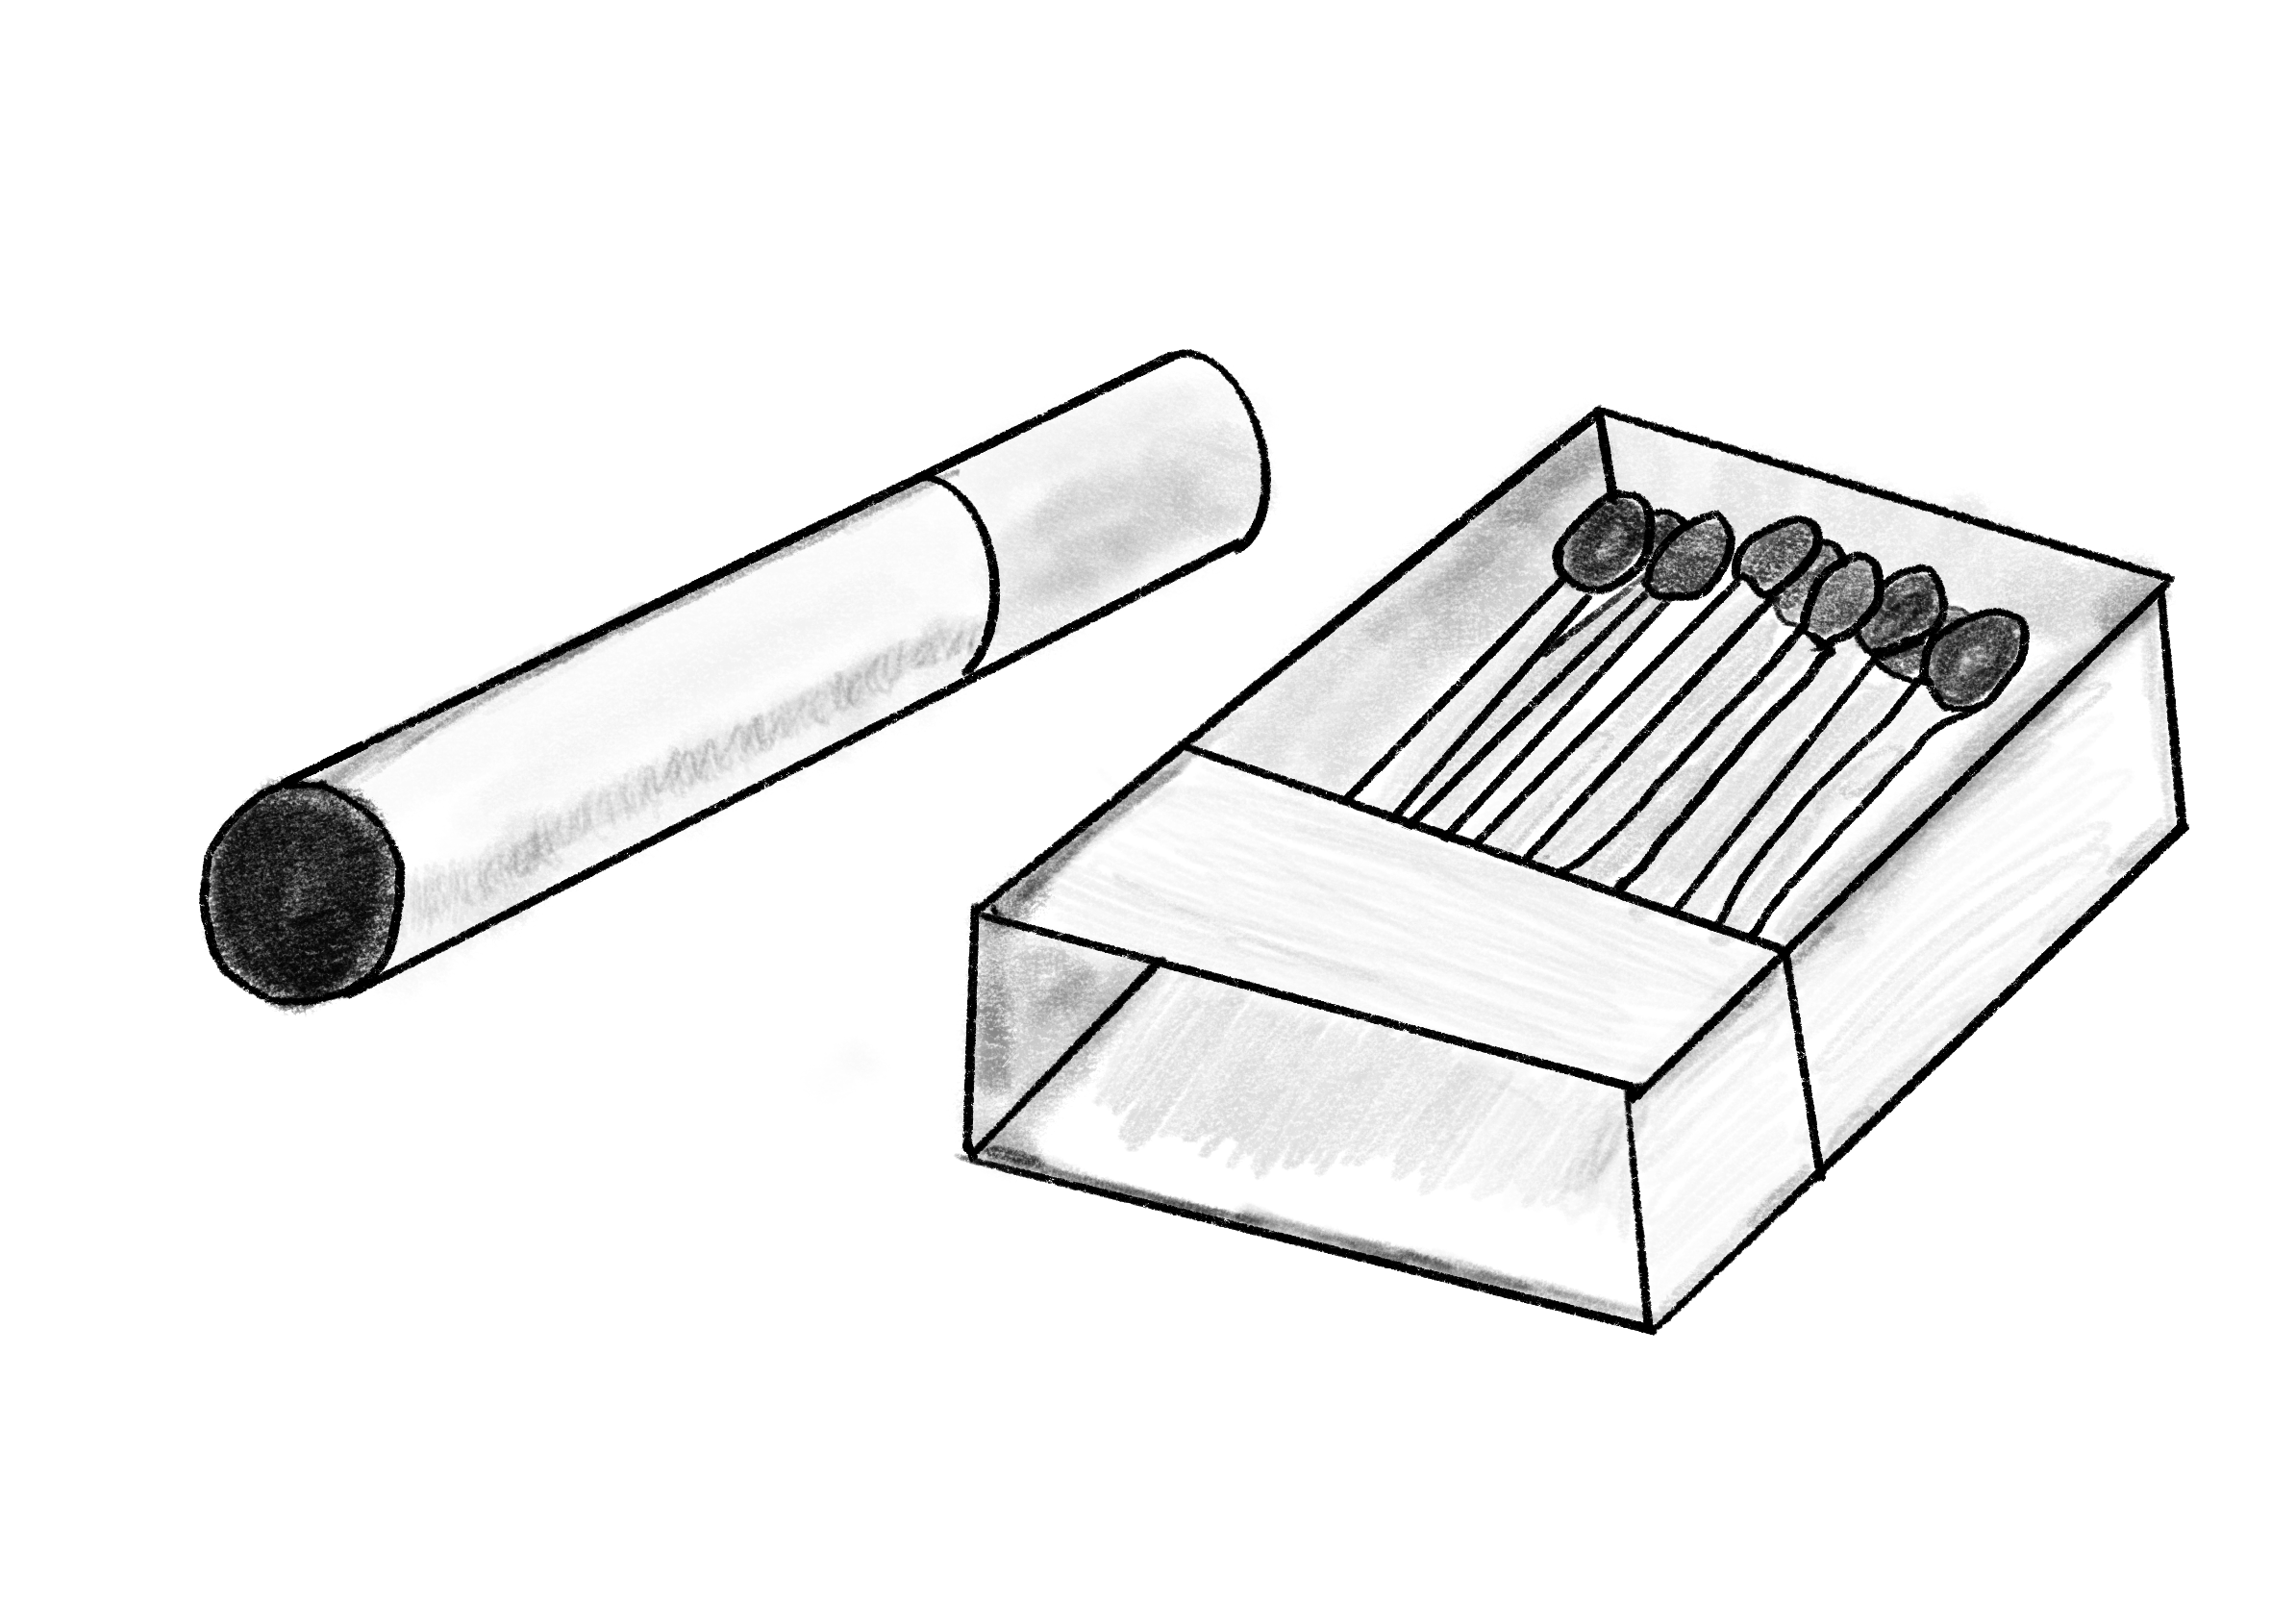
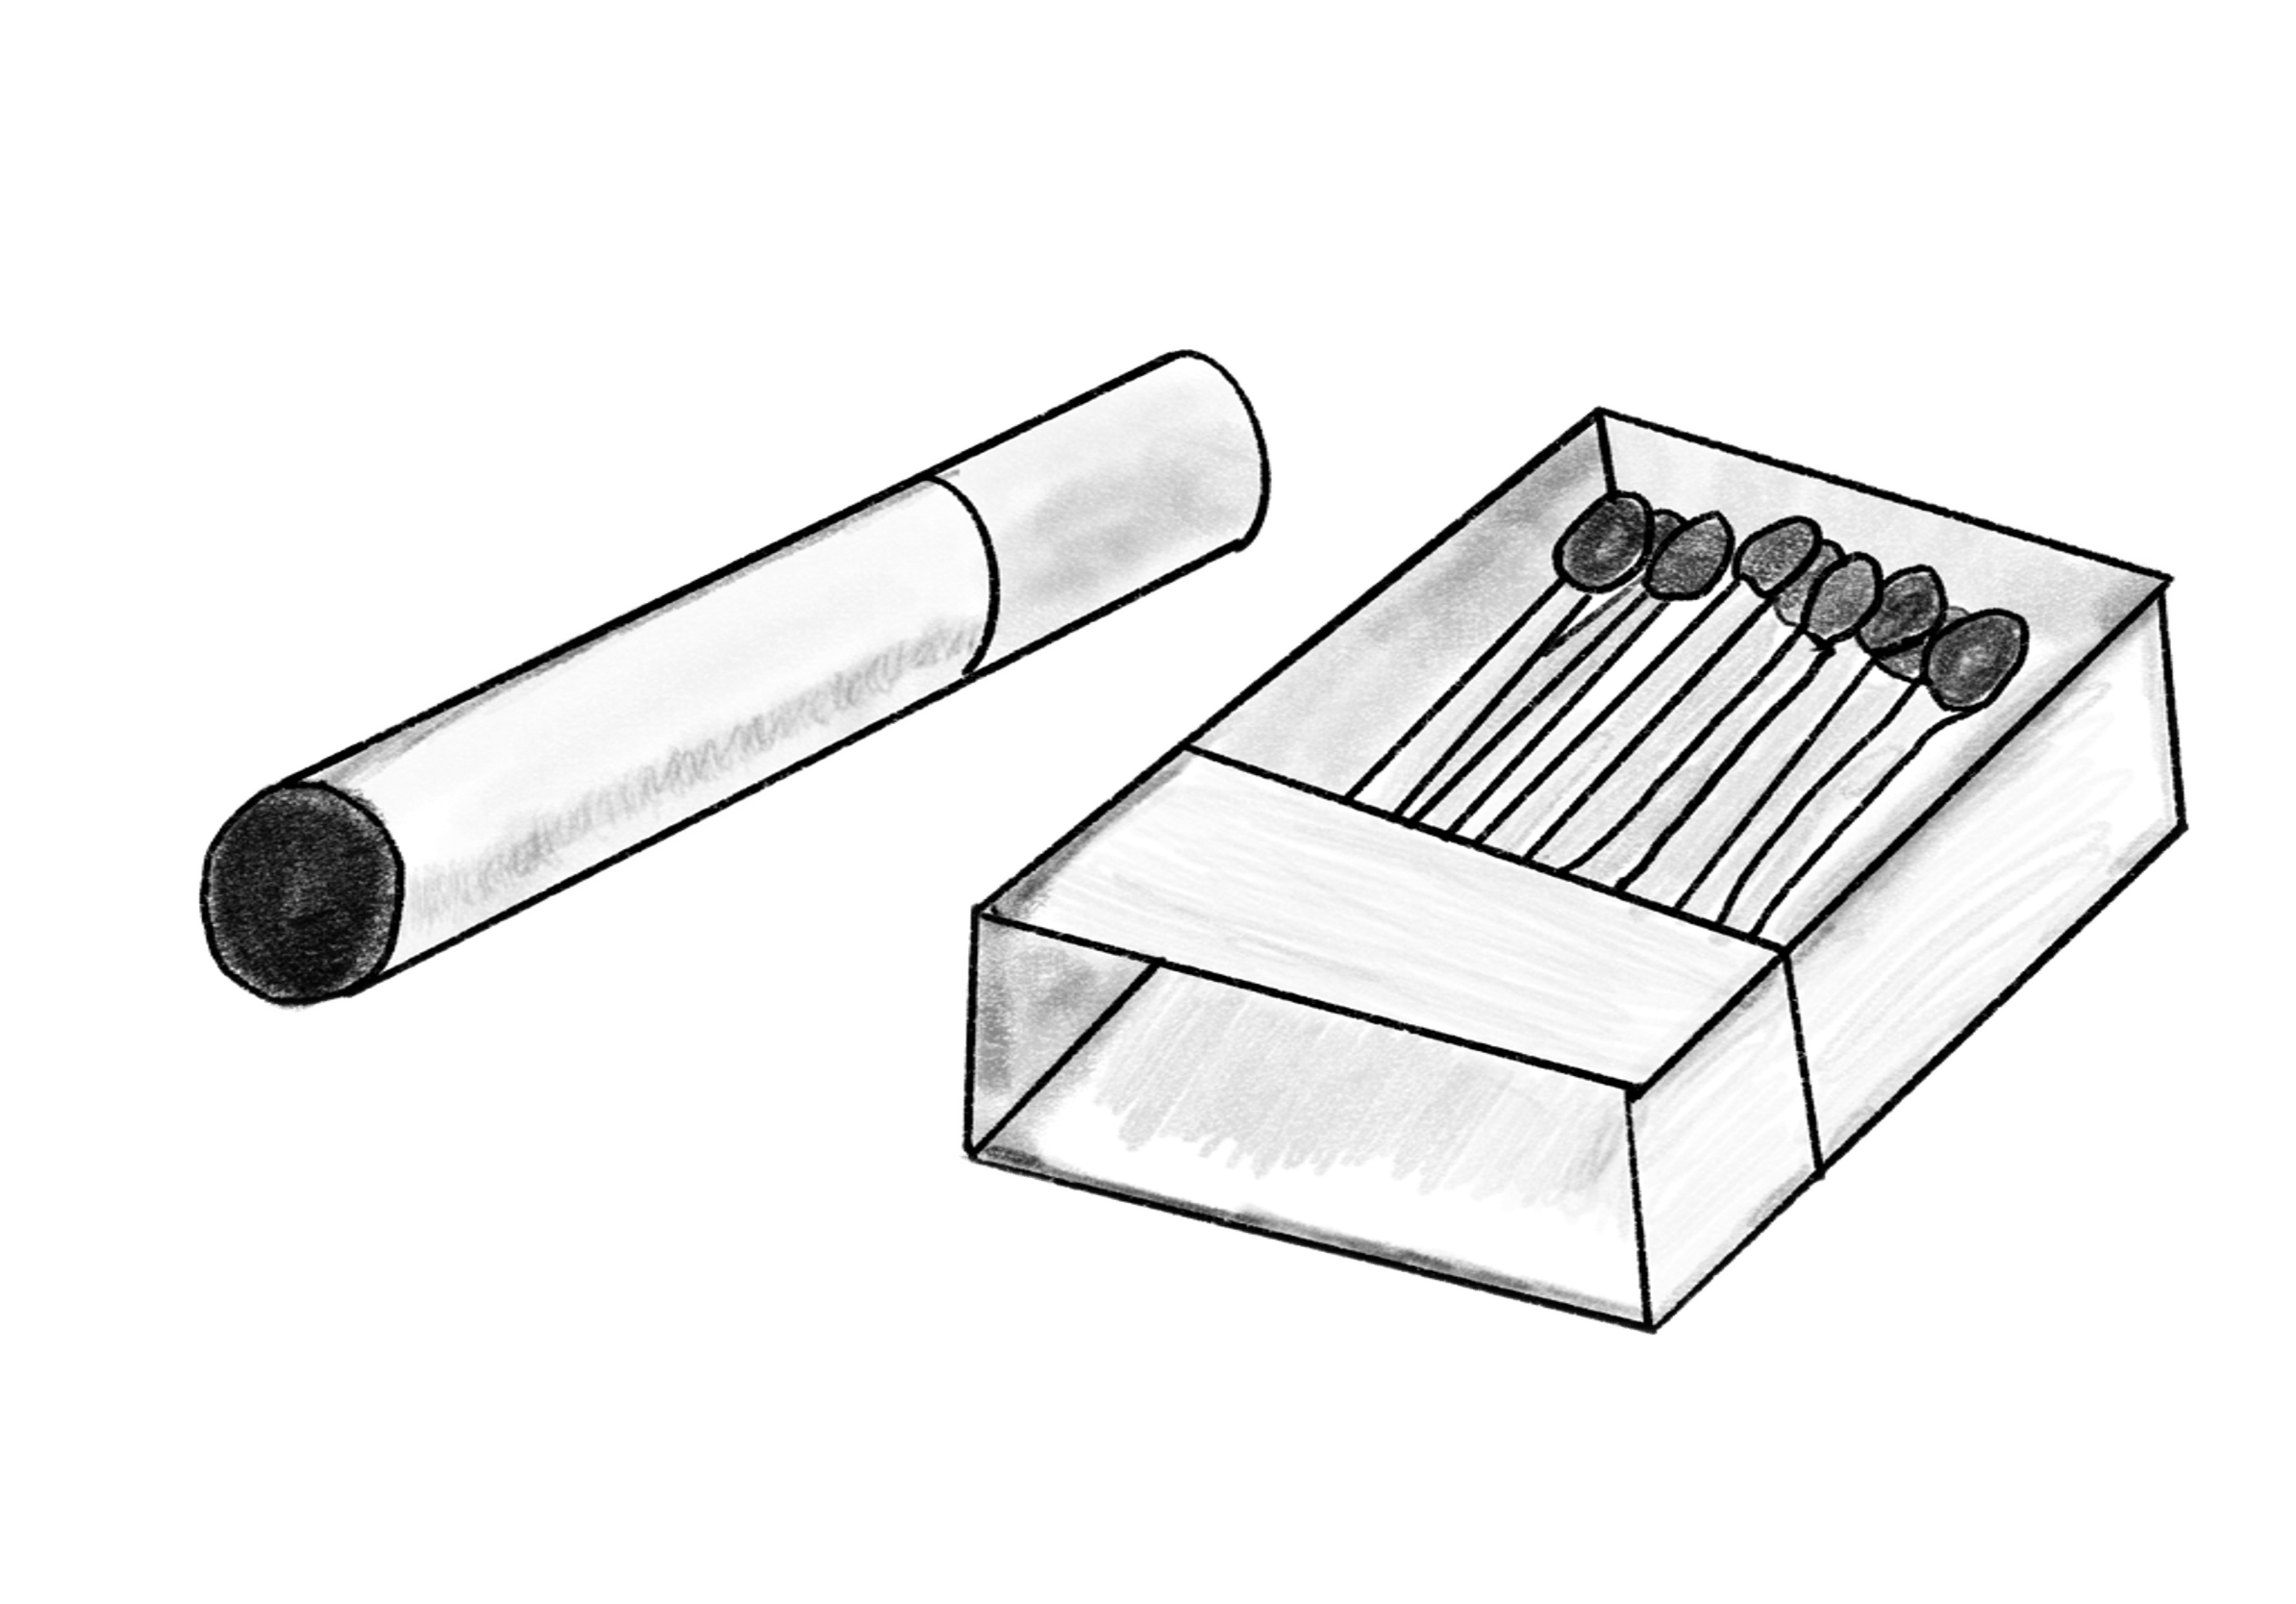
Update: Matchbox.png to be shaded; Gave letters upto 16 spacing when letter content really short; Added letters 22 and 17

diff --git a/public/letters/en/23-3.html b/public/letters/en/23-3.html
@@ -1,35 +1,41 @@
-<p class="sensei">啄木鳥
-喜怒 花鳥 穴は がらんどう 私の心
-がらんどう とうとうと 一つ 突く
-寂しいバラッド 私のにもがらんどう 私の
-にから音色 私の口茜色 私の箱も机を叩く がらんどう筆音
-う こつこつ歌う一握の音色 ○に光る 広
-い砂漠 私の 乾いたかみの匂いと ○○○
-月とがらんどう 鉛筆を持つがらんどう 遠
-くの 真昼の月もがらんどう
- 
-  茜差す 差す日照りに 私はものも言わず
+<p class="boy">Woodpecker
+<span class="strikethrough">Joy and anger,&emsp;Flowers and birds&emsp;A hole&emsp;Hollow</span>
+My heart is empty
+Finally <span class="strikethrough">a single</span> the <span class="strikethrough">sad</span> lonely ballad pierces through
+<span class="strikethrough">
+Timbres from my mouth&emsp;My mouth,&emsp; a deep madder&emsp;Even my fingers
+</span>
+<span class="strikethrough">Emptiness in</span> My pencil tapping the desk, Diligently, I sing 
+<span class="strikethrough">Shining on the table</span>
+A handful of timbres
+In the vast desert, The smell of my parched paper
+<span class="strikethrough">Emptiness and the midday moon</span>
+Emptiness when I hold the pencil
+Even the <span class="strikethrough">faraway</span> midday moon is empty 
 
+Madder-red glare, in the parching dry sun
+I don't say a single word
+<span class="strikethrough">To that destination where the clouds billow</span>
+Clouds billowing, trees reaching
+Shall I sing about the leaves and what their number?
 
-に 雲が立つその行きに 雲が立つ 立つ木
-の葉の何を数を歌えばいいのか
-私の胸の空っぽ 落ち葉をいそ木立と
-机を叩くがらんどう 寂しい鉛筆の音色
- 
-私の指のがらんどう とうとうと鳴く寂し
-いバラッド 机を突く筆の音 まるできつつ
-きのよう 広い砂漠の上の 白い砂漠 私の
-朝いたかみの匂いと 新しい紙を買わないと
-窓から○るがらんどう 筆を進めるがらん
-どう 響く一握の音色 汗をかく 雲も焼く
+<span class="strikethrough">Barrenness in my chest&emsp;The grove urges the fallen leaves forward
+And emptiness when tapping my desk&emsp;The lonely timbre of the pencil</span>
+Emptiness in my fingers
+Finally, the lonely ballad cries out
+The pencil taps the desk, Like a woodpecker
+<span class="strikethrough">In the wide desert, there lies a</span>
 
+A white desert—mine
+<span class="strikethrough">The smell of my parched paper</span>
+I need to buy new paper
+Emptiness reflecting off the window, Emptiness as I drive my pencil forward
+A handful of timbres ring
+<span class="strikethrough">I scratch my sweat, Even the clouds scorch</span>
 
+A handful of
 
-
-________________
-
-
-
-
-啄木鳥 落ち葉を いそぐ 牧の木々
-________________</p>
+Woodpecker’s peck— 
+Pastured groves,
+In a hurry to drop leaves.
+</p>

diff --git a/public/letters/en/23-4.html b/public/letters/en/23-4.html
@@ -1,37 +1,20 @@
-<p class="sensei">砂も焼く 焼く日照りを 私は覚えていたの
-に 雲が立つ その行方も 雲は覚えている
-のか 全て覚えているのに
- 
-茜差す 差す日照りに
-一つのものも言わ
-ずに 身体ごと 照らす光を 私ごと照らす光
-を お前は知ろうとするのか
+<p class="boy">I thought that burning dry sun 
+Scorching even the sand
+Had already seared into me
+And I thought I’d etched 
+Every single detail of that destination 
+Do the clouds remember?
+Where the clouds billow
+Madder-red glare, in the parching dry sun
+Not saying even a single word
+Do you dare to know
+The light that shines on every part of me
+The light that shines on my being
 
-
-
-
-
-
-
-
-
-
-
-
-
-
-
-
-
-
-
-
-
-
-さつつき 喜怒哀楽        花鳥風月 すべて 穴
-は がらんどう 私の心 がらんどう とう
-とう 一つ と突く 悲しい バラッド 私の
-に とうとう突く 悲しい がらんどう 茜
-色 遠回り 身体ごと 照らす光を        一握の音色
-広い砂漠 砂漠の砂 がらんどう 啄木鳥
-________________</p>
+<span class="strikethrough">Woodpecker&emsp;&emsp;&emsp;Joy, anger, grief, pleasure&emsp;&emsp;&emsp;The beauties of nature
+Everything&emsp;&emsp;A hole had&emsp;&emsp;Empty&emsp;&emsp;&emsp;My heart&emsp;&emsp;&emsp;Empty&emsp;Pecking
+A single&emsp;&emsp;Disperse&emsp;&emsp;&emsp;Sorrowful ballad
+My mouth&emsp;&emsp;&emsp;Finally disperses&emsp;&emsp;Sorrowful&emsp;Madder-red
+The long way&emsp;&emsp;&emsp;The light that shines on every part of me&emsp;&emsp;&emsp;&emsp;A handful of timbres
+A wide desert&emsp;&emsp;The desert sand&emsp;&emsp;Empty&emsp;&emsp;&emsp;Woodpecker</span>
+</p>

diff --git a/public/letters/en/23-1.html b/public/letters/en/23-1.html
@@ -1,19 +1,13 @@
-<p class="sensei">先生からの手紙は別の誰かによって入れ替えられています。
-あの茶封筒の残骸が、家のゴミ袋にありました。
-先生が僕に送ってきている、茶封筒。刑務所の住所が書かれていて、その封筒が僕に見つからないよう、底に捨てられていたんです。
-僕がいつも受け取っているこれらは、白くて、横型の洋長封筒です。
-そこには先生からの住所は書かれていません。これを僕は必要がないから書いていないものだと思って、ずっと流していました。
+<p class="boy">Somebody has been switching your letters out, Sensei.
+I found a brown manila envelope in the trashbin. The brown manila envelope that I assume you've been sending your letters in.
+It was discarded at the very bottom of the bin so I couldn't discover the prison address that had been stamped on it.
 
+The letters that I've always been receiving were white and horizontal long Western-style envelopes. Your return address wasn't written anywhere on them. I've always thought that you never wrote it down because it wasn't necessary.
+The only possibility I can think of for this situation is that my mother is opening the manila envelopes you're sending and switching them into Western-style ones before placing them back into the mailbox.
 
-状況から推察するに、母が先生からの茶封筒を開け、用意しておいた洋長封筒へ中身を入れ替えて、郵便受に入れ直しているとしか
-
-
-
-
-考えられません。
-やっとわかりました。
-先生は、母と面識かあったのでしょうか？近所の人に確認しても、僕がもらったようなチラシを見たことがある人は一人もいませんでした。
-これは、僕だけに向けて作られたチラシだ。
-母は先生のことを知っているんですか？そして、先生も母のことを知っているということですか？
-もしそうなら、先生は母と何を話したんでしょうか。どういうやり取りの末に、僕と文通することを母と決めたんでしょうか。
-________________</p>
+I finally understand.
+Sensei — you're acquainted with my mother, aren't you? I talked to the neighbors about the flyer I received and not one of them has seen it before.
+This was made just for me. Does my mother know about you, Sensei? And do you know about my mother?
+If that’s the case, what did you talk about with my mother? How did it end up that you two decided that we should start our correspondence?
+<br><br><br>
+</p>

diff --git a/public/letters/en/22-6.html b/public/letters/en/22-6.html
@@ -1,11 +1,15 @@
 <aside class="margin-note-left">October 6</aside>
-<p class="boy">&emsp;Dear Sensei,
-&emsp;Am I really moving forward, bit by bit? Can I really say that’s true?
+<p class="boy">Dear Sensei,
+
+Am I really moving forward, bit by bit? Can I really say that’s true?
 I’ve always thought that I lived like a corpse, just going through the motions. Even now, I can’t say that’s changed.
 Writing poems, creating melodies—I only do them because I want to do something noble. I just want to close the gap between myself and others. Every day, I just wake up, stroll through the midday streets, write poems on my genkouyoshi, and go to sleep. It almost feels like I’m faking life. Yet I also had a sense that I was wrong with something, somehow.
 It began when I found your flyer. My mother handed it to me in the living room and said “well, if you’re going to be writing, you might as well try sending something in.”
 
-&emsp;I have to do some thinking. I have to go find something around the house. You don’t have to reply.
+I have to do some thinking. I have to go find something around the house. You don’t have to reply.
 
-&emsp;I will write again. Please take care.
-<p class="boy" style="text-align:right">Sincerely,</p>
+I will write again. Please take care.
+<br>
+<br>
+<p class="boy" style="text-align:right">Sincerely,<br /><br /></p>
+</p>

diff --git a/public/letters/en/16-4.html b/public/letters/en/16-4.html
@@ -14,9 +14,9 @@ I've been looking for something that never gets old
 Like a sun with da capo
 How fun!</p>
 <a href="/letters/pictures/sheet_music/sheet_rubato.png" target="_blank" rel="noopener noreferrer"><img src="/letters/pictures/sheet_music/sheet_rubato.png" alt="Sheet music for Rubato, drawn by the boy." /></a>
-<p class="boy"><span class="scribble">
-Cm7　　|　　F7　　|　　Bb7　　|　　Eb　　
-　6　　　　2　　　　　5　　　　　1
-Tonic　　Secondary　　Dominant　　　Tonic
-　　　　dominant</span>
+<p class="boy"><span class="scribble" style="text-decoration: underline;">
+|Cm7　　|　　F7　　|　　Bb7　　|　　Eb　　|
+|　6　　|　2　　　 |　5　　　　|1         |
+|Tonic　　Secondary　　Dominant　　　Tonic|
+|　　　　dominant                         |</span>
 </p>

diff --git a/public/letters/en/21-2.html b/public/letters/en/21-2.html
@@ -10,14 +10,5 @@
 
 
 
-
-
-
-
-
-
-
-
-
     
 </p>

diff --git a/public/letters/en/22-5.html b/public/letters/en/22-5.html
@@ -11,12 +11,6 @@ Open to the winter ahead, O sounds of a flower bloom.
 Onward through spring, O my storm's song.
 
 
-
-
-
-
-
-
 &emsp;&emsp;<span class="strikethrough">Even if I draw you using words,</span>
 &emsp;&emsp;&emsp;&emsp;&emsp;&emsp;<span class="strikethrough">it's not actually you</span>
 &emsp;&emsp;I alone, I alone am not in spring
@@ -27,7 +21,7 @@ Onward through spring, O my storm's song.
 &emsp;&emsp;<span class="strikethrough">I am an apple branch</span>
 &emsp;&emsp;A neatly applied stamp's surface
 
-&emsp;&emsp;Because even I use my whole body I don't understand my heart
+&emsp;&emsp;Because even if I use my whole body I don't understand my heart
 &emsp;&emsp;Perhaps my words have become a footnote
 &emsp;&emsp;Perhaps my heart has become worn out
 &emsp;&emsp;I wonder if I have come to understand someone else's heart

diff --git a/public/letters/en/23-2.html b/public/letters/en/23-2.html
@@ -1,5 +1,5 @@
-<p class="sensei">先生は、僕に何をしたかったんでしょうか。
+<p class="boy">What do you want with me, Sensei? 
 
-
-いつもの詩を同封します。今回は書き集めたものからです。今は他に書く気になれず、すみません。
-________________</p>
+I'm sending you the usual song. This is one from the archives. I couldn't find the motivation to write something new today. I’m sorry.
+<br /><br /><br /><br /><br /><br /><br /><br /><br /><br /><br /><br />
+</p>

diff --git a/public/letters/en/17-3.html b/public/letters/en/17-3.html
@@ -1,15 +1,12 @@
 <p class="boy"><span style="font-size: 20px; font-weight: bold;">Cremation</span>
-
 One day I realized
 <span class="strikethrough">In front of the glass of shopping window</span>
 In front of washbasin's mirror 
 There is an empty hole
 Somewhere beneath my face
 
-Smoldering, I inhale the sun
-Full moon as an ashtray
-From the empty hole emerges
-My translucent ghost
+Smoldering, I inhale the sun, Full moon as an ashtray
+From the empty hole emerges, My translucent ghost
 
 Ah, only I know a love that went above 
 Ah, <span class="strikethrough">I just</span> until I burnt, sway, at the crematorium

diff --git a/public/letters/en/20-3.html b/public/letters/en/20-3.html
@@ -1,5 +1,10 @@
 <p class="boy">What kind of person you are probably doesn't matter.
 I'll send another letter when I've finished writing another poem.
+<br>
+<br>
+<br>
+<br>
+<br>
+<br><br>
 </p>
 <p class="boy" style="text-align:right">Sincerely,<br><br></p>
-<br>

diff --git a/public/letters/en/21-5.html b/public/letters/en/21-5.html
@@ -15,11 +15,4 @@ Please send me another letter.
 
 
 
-
-
-
-
-
-
-
 </p>

diff --git a/public/letters/en/19-9.html b/public/letters/en/19-9.html
@@ -1,3 +1,4 @@
-<p class="sensei">By the way, it's said that the word “<span class="note" data-note="This Japanese word Fuzakeru can be written as 巫山戯る. In Chinese, Mount Wu is written as 巫山, i.e. the first two charachters of Fuzakeru.">Fuzakeru</span>” (to be playful) also has that origin. It has that Kanji because it refers to a man and a woman playing around on Mount Wu.
-The world is made up of references.
+<p class="sensei">By the way, it's said that the word “<span class="note" data-note="This Japanese word Fuzakeru can be written as 巫山戯る. In Chinese, Mount Wu is written as 巫山, i.e. the first two charachters of Fuzakeru.">Fuzakeru</span>” (to be playful) also has that origin.
+It has that Kanji because it refers to a man and a woman playing around on Mount Wu.
+The world is made up of references.<br><br><br><br><br><br><br><br><br><br><br><br><br>
 </p>